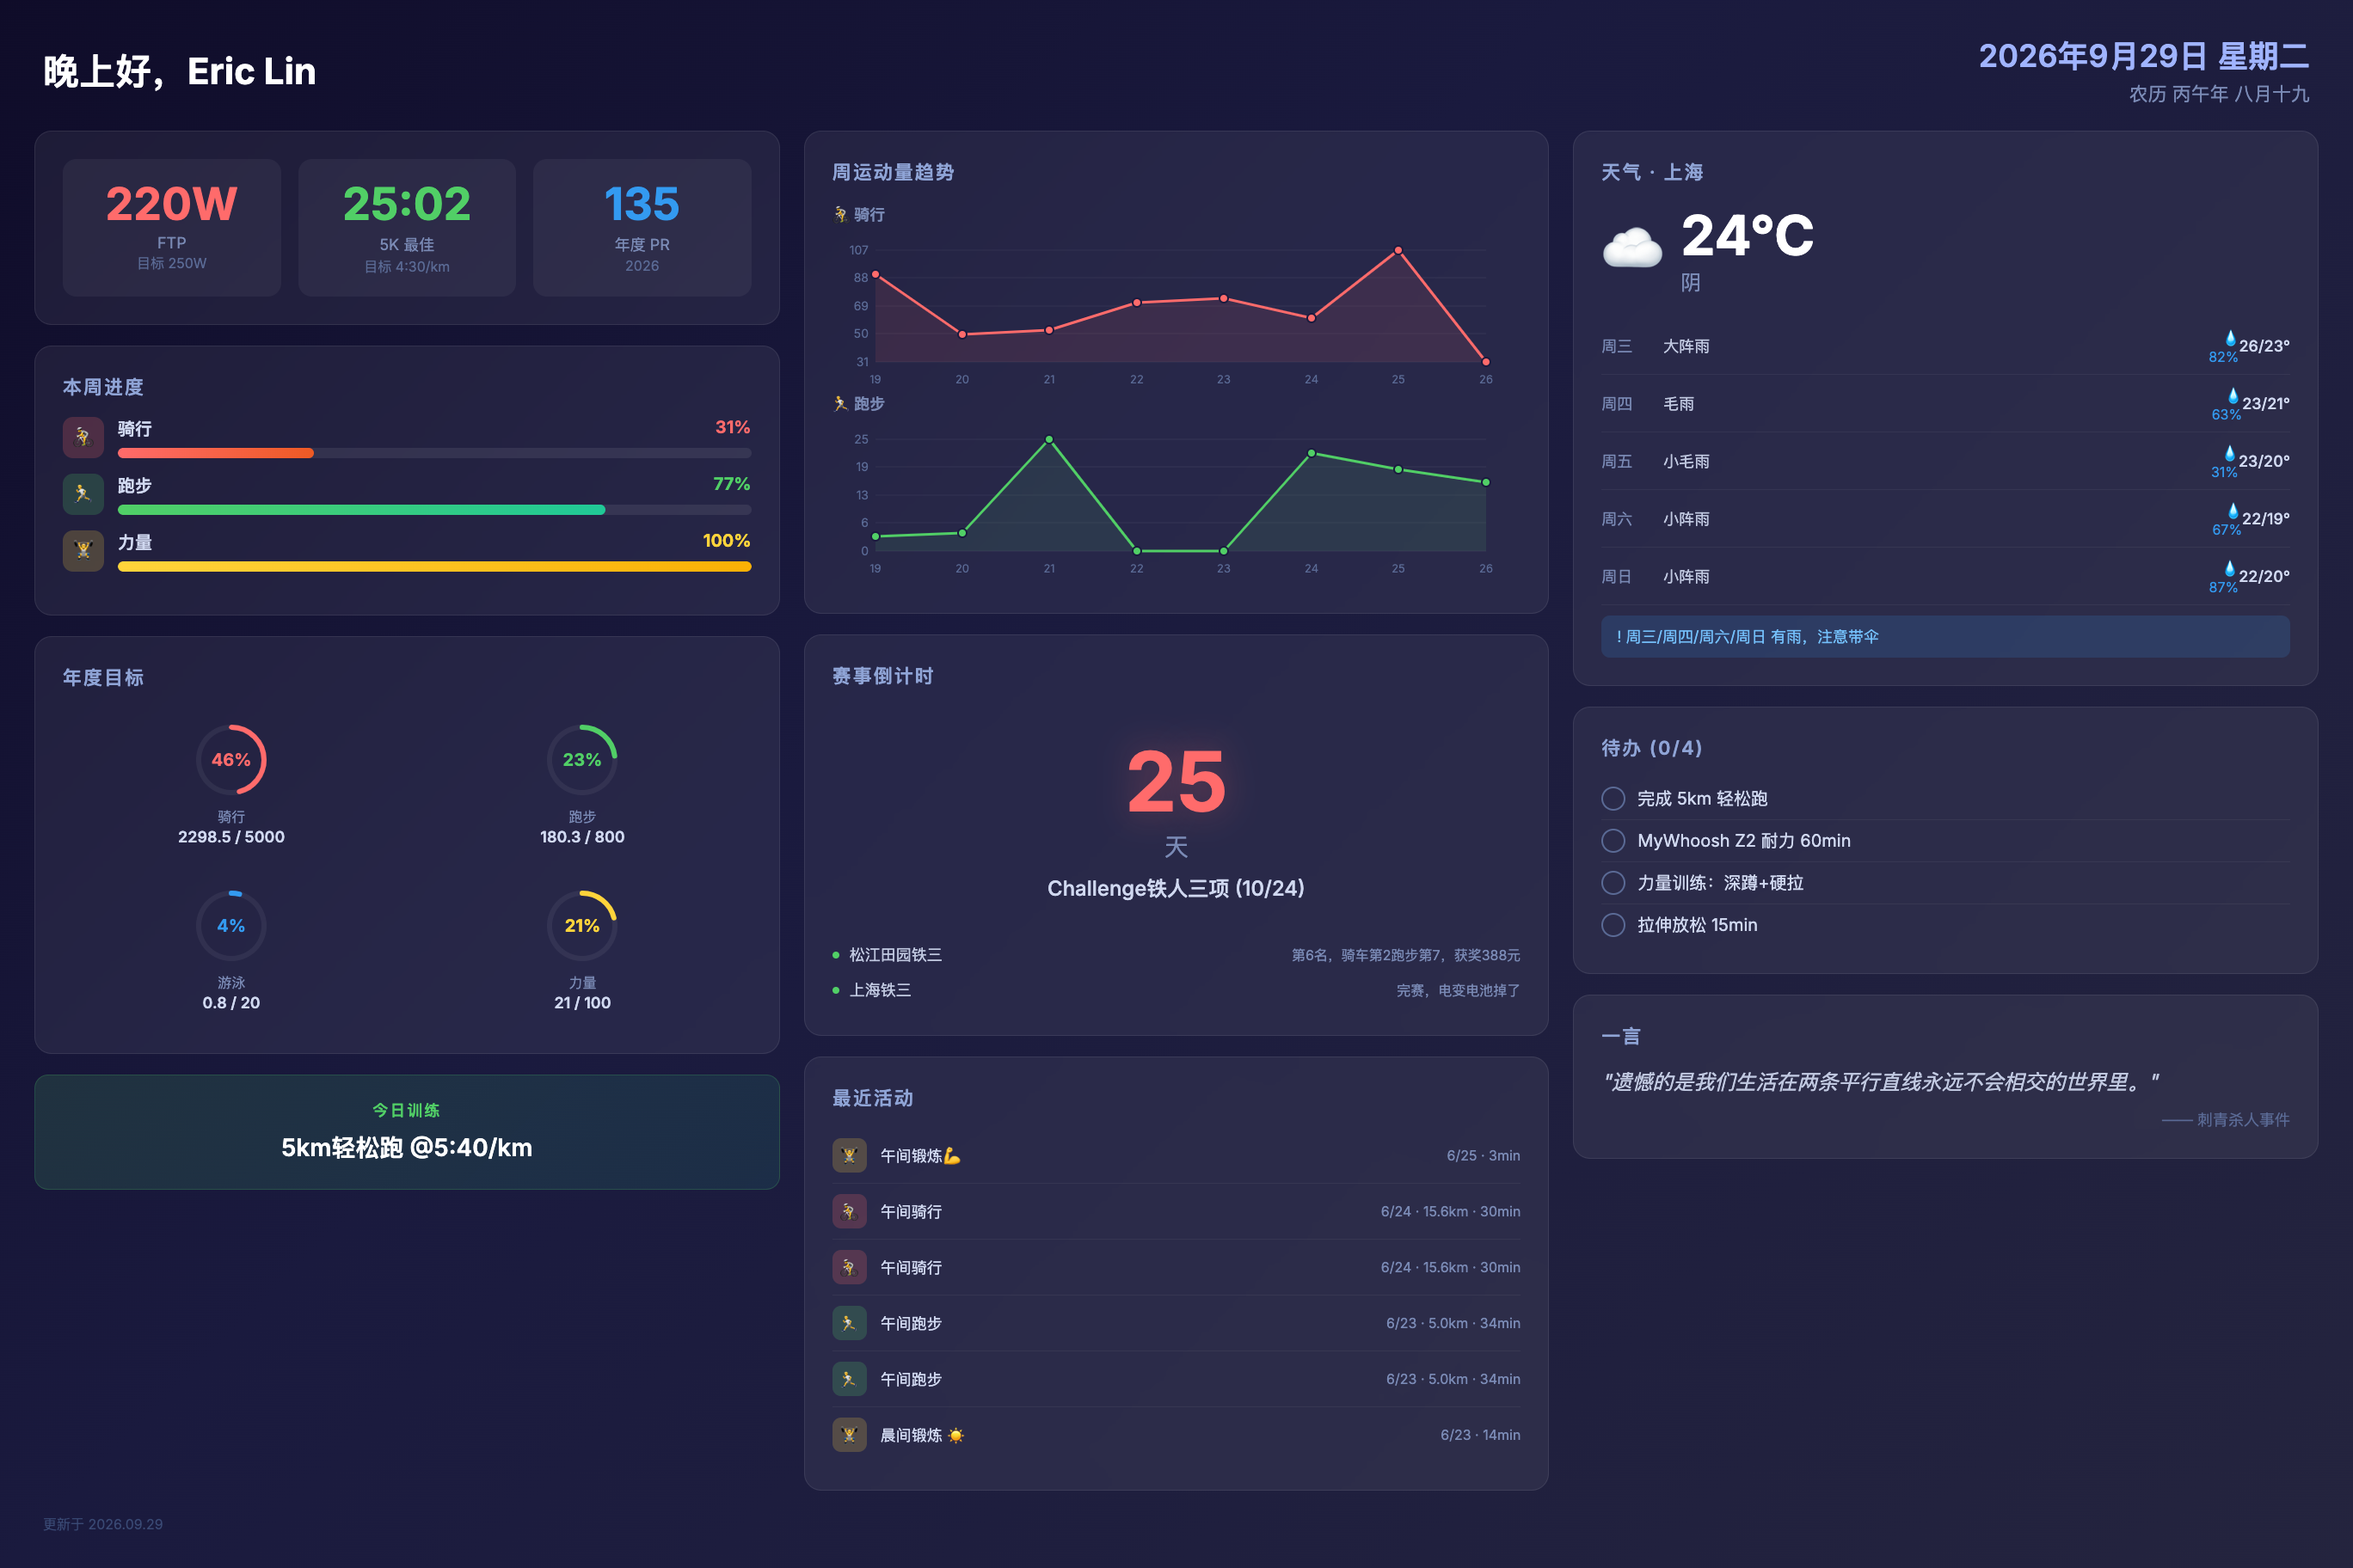
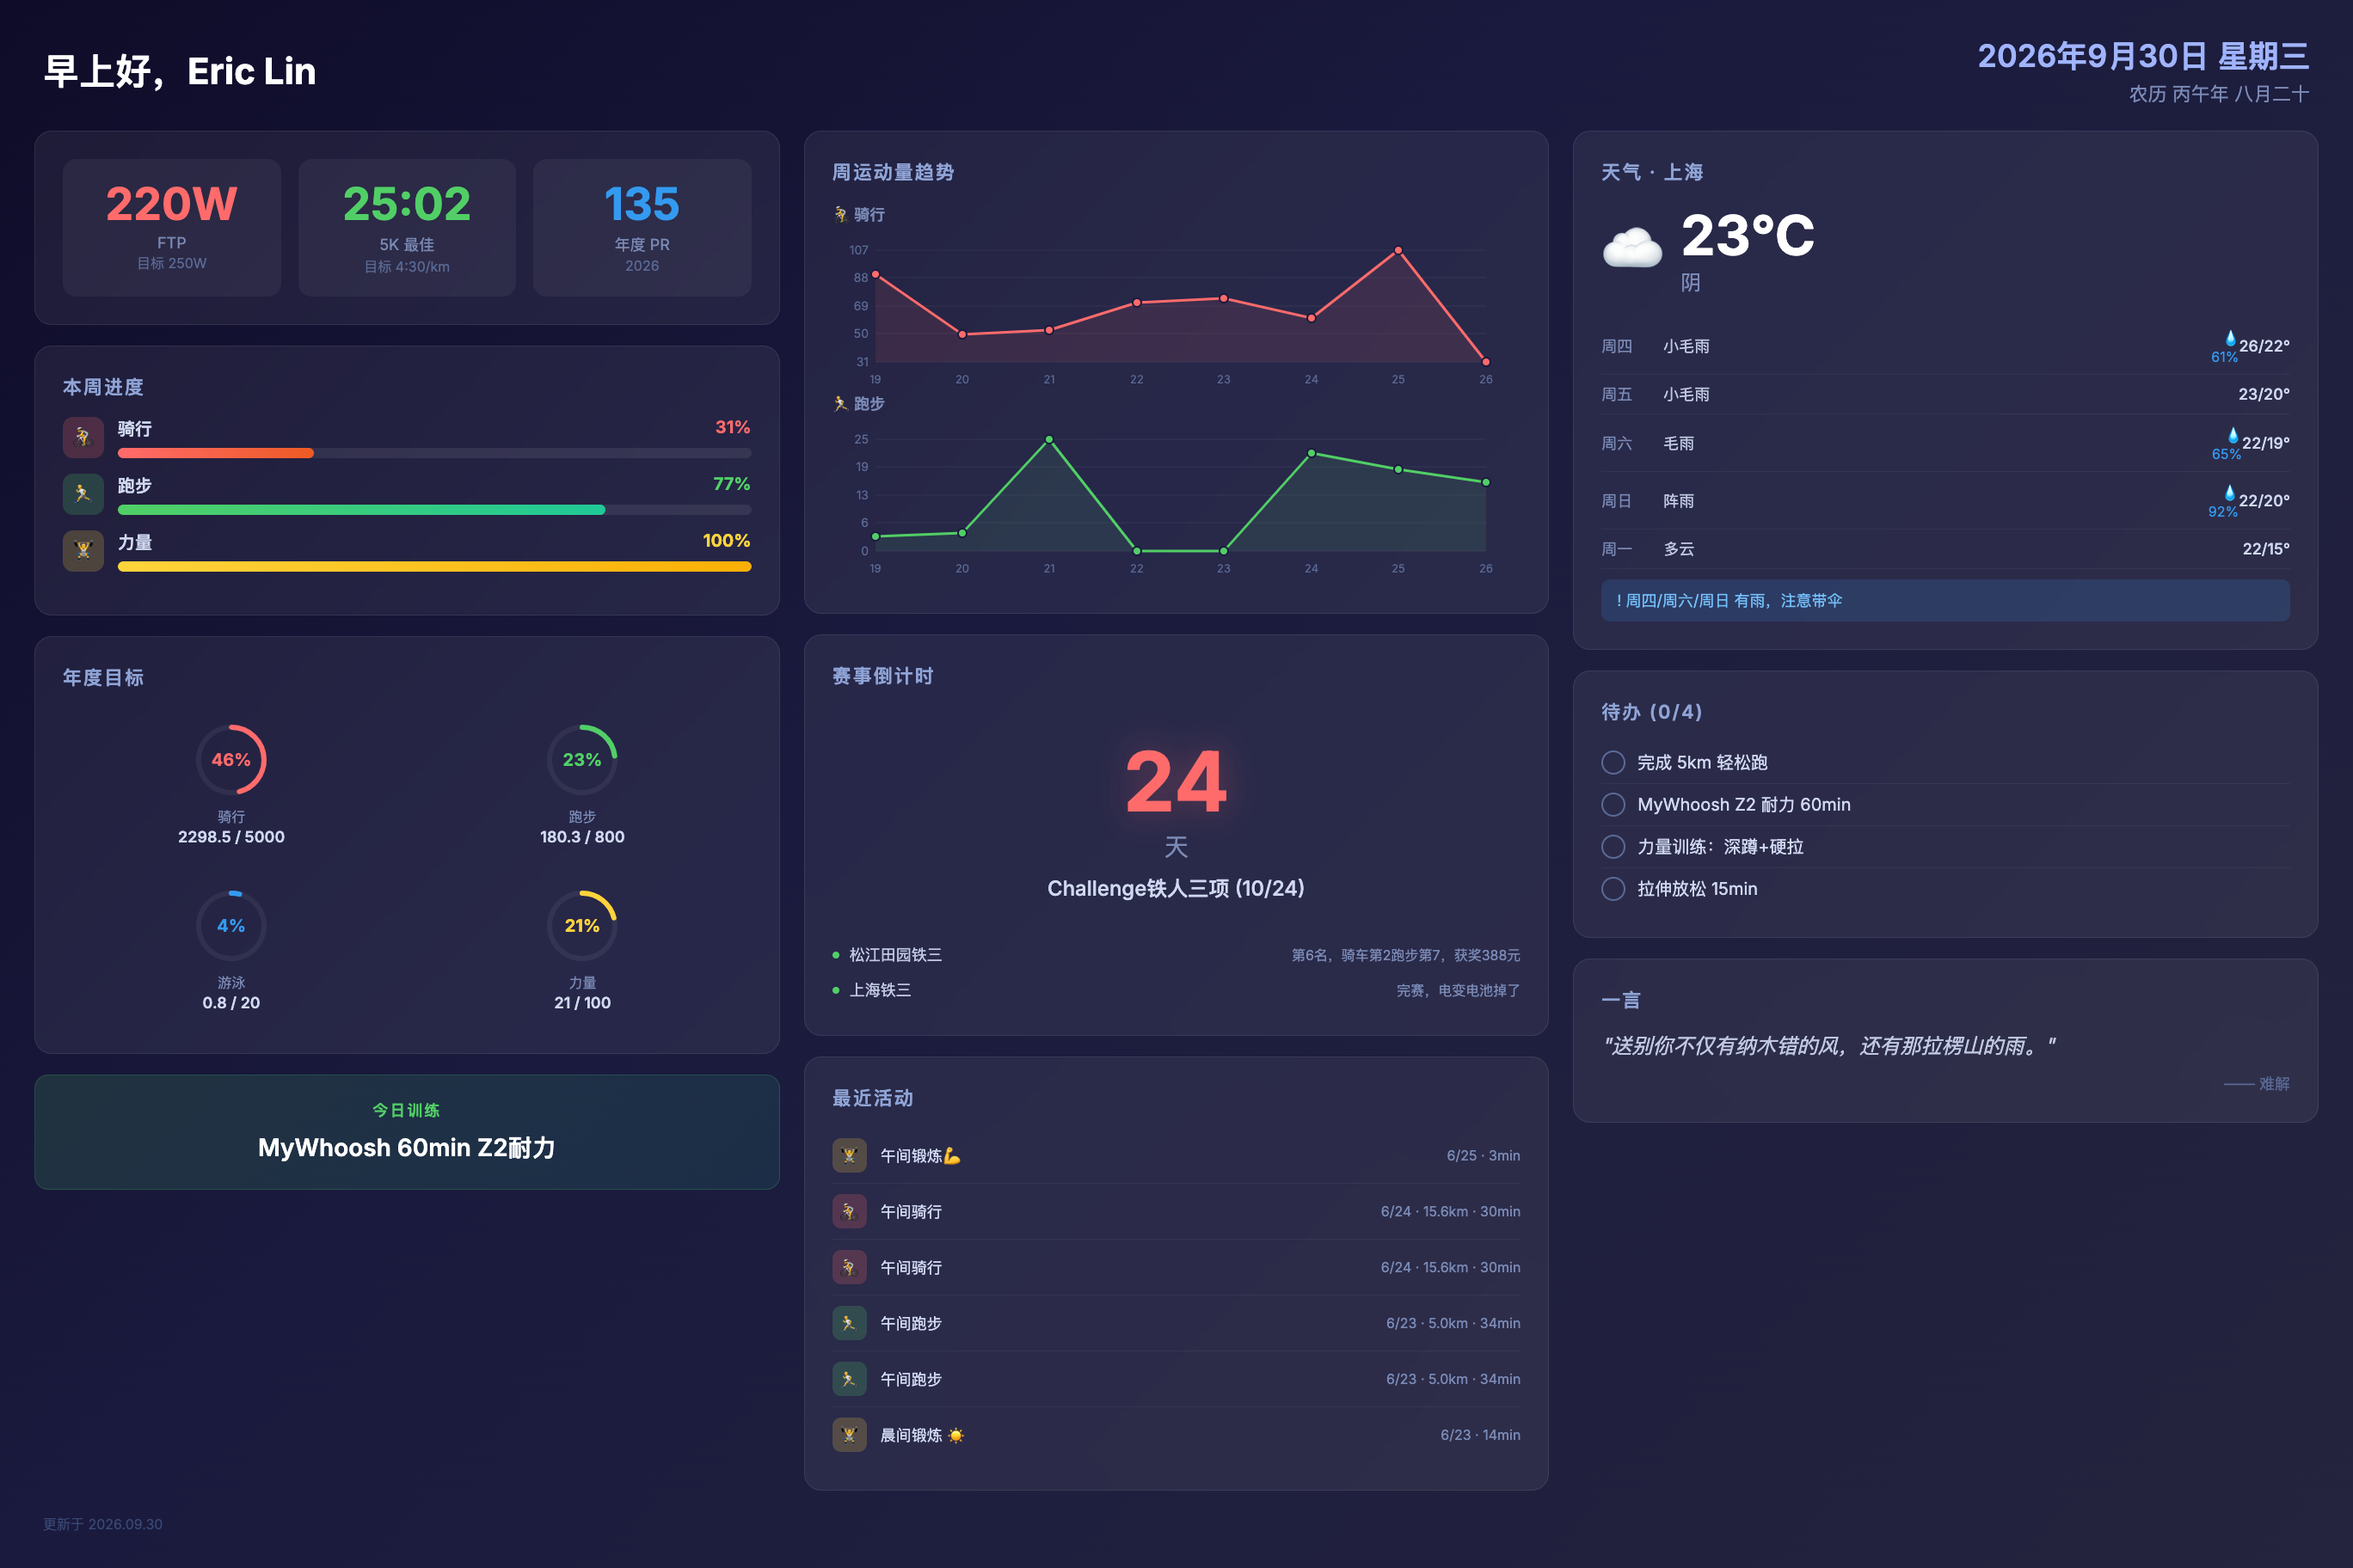
deploy: 2026-09-30-07:00

diff --git a/screensaver.html b/screensaver.html
@@ -490,13 +490,13 @@ html, body {
 <!-- ===== TOP BAR ===== -->
 <div class="top-bar">
   <div>
-    <div class="greeting">晚上好，Eric Lin</div>
+    <div class="greeting">早上好，Eric Lin</div>
     
   </div>
   <div class="date-info">
-    <div class="solar-date">2026年9月29日 星期二</div>
+    <div class="solar-date">2026年9月30日 星期三</div>
     
-    <div class="lunar-date">农历 丙午年 八月十九</div>
+    <div class="lunar-date">农历 丙午年 八月二十</div>
     
   </div>
 </div>
@@ -638,7 +638,7 @@ html, body {
   
   <div class="ai-today-card">
     <div class="ai-today-label">今日训练</div>
-    <div class="ai-today-text">5km轻松跑 @5:40/km</div>
+    <div class="ai-today-text">MyWhoosh 60min Z2耐力</div>
   </div>
   
 
@@ -732,7 +732,7 @@ html, body {
   <div class="card">
     <div class="card-title">赛事倒计时</div>
     <div class="race-countdown">
-      <div class="countdown-number">25</div>
+      <div class="countdown-number">24</div>
       <div class="countdown-unit">天</div>
       <div class="countdown-name">Challenge铁人三项 (10/24)</div>
     </div>
@@ -810,50 +810,50 @@ html, body {
     <div class="weather-current">
       <div class="weather-icon-big">☁</div>
       <div>
-        <div class="weather-temp-big">24°C</div>
+        <div class="weather-temp-big">23°C</div>
         <div class="weather-desc">阴</div>
       </div>
     </div>
     
     
     <div class="forecast-row">
-      <div class="forecast-day">周三</div>
-      <div class="forecast-desc">大阵雨</div>
-      <div class="forecast-precip">💧82%</div>
-      <div class="forecast-range">26/23°</div>
-    </div>
-    
-    <div class="forecast-row">
       <div class="forecast-day">周四</div>
-      <div class="forecast-desc">毛雨</div>
-      <div class="forecast-precip">💧63%</div>
-      <div class="forecast-range">23/21°</div>
+      <div class="forecast-desc">小毛雨</div>
+      <div class="forecast-precip">💧61%</div>
+      <div class="forecast-range">26/22°</div>
     </div>
     
     <div class="forecast-row">
       <div class="forecast-day">周五</div>
       <div class="forecast-desc">小毛雨</div>
-      <div class="forecast-precip">💧31%</div>
+      <div class="forecast-precip"></div>
       <div class="forecast-range">23/20°</div>
     </div>
     
     <div class="forecast-row">
       <div class="forecast-day">周六</div>
-      <div class="forecast-desc">小阵雨</div>
-      <div class="forecast-precip">💧67%</div>
+      <div class="forecast-desc">毛雨</div>
+      <div class="forecast-precip">💧65%</div>
       <div class="forecast-range">22/19°</div>
     </div>
     
     <div class="forecast-row">
       <div class="forecast-day">周日</div>
-      <div class="forecast-desc">小阵雨</div>
-      <div class="forecast-precip">💧87%</div>
+      <div class="forecast-desc">阵雨</div>
+      <div class="forecast-precip">💧92%</div>
       <div class="forecast-range">22/20°</div>
+    </div>
+    
+    <div class="forecast-row">
+      <div class="forecast-day">周一</div>
+      <div class="forecast-desc">多云</div>
+      <div class="forecast-precip"></div>
+      <div class="forecast-range">22/15°</div>
     </div>
     
     
     
-    <div class="rain-alert">! 周三/周四/周六/周日 有雨，注意带伞</div>
+    <div class="rain-alert">! 周四/周六/周日 有雨，注意带伞</div>
     
   </div>
   
@@ -902,9 +902,9 @@ html, body {
   
   <div class="card">
     <div class="card-title">一言</div>
-    <div class="quote-text">"遗憾的是我们生活在两条平行直线永远不会相交的世界里。"</div>
+    <div class="quote-text">"送别你不仅有纳木错的风，还有那拉楞山的雨。"</div>
     
-    <div class="quote-from">—— 刺青杀人事件</div>
+    <div class="quote-from">—— 难解</div>
     
   </div>
   
@@ -913,7 +913,7 @@ html, body {
 
 <!-- ===== BOTTOM BAR ===== -->
 <div class="bottom-bar">
-  <div class="update-time">更新于 2026.09.29</div>
+  <div class="update-time">更新于 2026.09.30</div>
 </div>
 
 </div>

diff --git a/life.html b/life.html
@@ -89,7 +89,7 @@ html, body {
 <table class="header-table">
   <tr>
     <td class="header-left">生活</td>
-    <td class="header-right">2026.09.29</td>
+    <td class="header-right">2026.09.30</td>
   </tr>
 </table>
 
@@ -138,7 +138,7 @@ html, body {
   <table class="weather-table">
     <tr>
       <td class="weather-icon">~</td>
-      <td class="weather-temp">24°C</td>
+      <td class="weather-temp">23°C</td>
       <td class="weather-desc">阴</td>
     </tr>
   </table>
@@ -146,17 +146,10 @@ html, body {
   <table class="forecast-table">
     
     <tr>
-      <td class="forecast-day">周三</td>
-      <td class="forecast-icon">|</td>
-      <td>大阵雨</td>
-      <td class="forecast-range">26/23°C</td>
-    </tr>
-    
-    <tr>
       <td class="forecast-day">周四</td>
       <td class="forecast-icon">.</td>
-      <td>毛雨</td>
-      <td class="forecast-range">23/21°C</td>
+      <td>小毛雨</td>
+      <td class="forecast-range">26/22°C</td>
     </tr>
     
     <tr>
@@ -169,21 +162,21 @@ html, body {
     <tr>
       <td class="forecast-day">周六</td>
       <td class="forecast-icon">.</td>
-      <td>小阵雨</td>
+      <td>毛雨</td>
       <td class="forecast-range">22/19°C</td>
     </tr>
     
     <tr>
       <td class="forecast-day">周日</td>
-      <td class="forecast-icon">.</td>
-      <td>小阵雨</td>
+      <td class="forecast-icon">|</td>
+      <td>阵雨</td>
       <td class="forecast-range">22/20°C</td>
     </tr>
     
     <tr>
       <td class="forecast-day">周一</td>
       <td class="forecast-icon">~</td>
-      <td>阴</td>
+      <td>多云</td>
       <td class="forecast-range">22/15°C</td>
     </tr>
     
@@ -191,13 +184,20 @@ html, body {
       <td class="forecast-day">周二</td>
       <td class="forecast-icon">*</td>
       <td>晴</td>
-      <td class="forecast-range">22/14°C</td>
+      <td class="forecast-range">21/14°C</td>
+    </tr>
+    
+    <tr>
+      <td class="forecast-day">周三</td>
+      <td class="forecast-icon">*</td>
+      <td>晴</td>
+      <td class="forecast-range">23/14°C</td>
     </tr>
     
   </table>
   
   
-  <div class="rain-alert">! 周三/周四/周六/周日 有雨，注意带伞</div>
+  <div class="rain-alert">! 周四/周六/周日 有雨，注意带伞</div>
   
 </div>
 
@@ -207,10 +207,10 @@ html, body {
   <p class="section-title">📅 今日</p>
   <table class="data-table">
     <tr>
-      <td>2026年9月29日 星期一</td>
+      <td>2026年9月30日 星期二</td>
     </tr>
     <tr>
-      <td>农历丙午年 八月十九</td>
+      <td>农历丙午年 八月二十</td>
     </tr>
   </table>
 </div>
@@ -261,9 +261,9 @@ html, body {
 
 <div class="box">
   <p class="section-title">💬 一言</p>
-  <p class="quote-text">遗憾的是我们生活在两条平行直线永远不会相交的世界里。</p>
+  <p class="quote-text">送别你不仅有纳木错的风，还有那拉楞山的雨。</p>
   
-  <p class="quote-from">—— 刺青杀人事件</p>
+  <p class="quote-from">—— 难解</p>
   
 </div>
 

diff --git a/index.html b/index.html
@@ -74,7 +74,7 @@ html, body {
 <table class="header-table">
   <tr>
     <td class="header-left">Eric Lin · 运动</td>
-    <td class="header-right">2026.09.29</td>
+    <td class="header-right">2026.09.30</td>
   </tr>
 </table>
 
@@ -225,17 +225,10 @@ html, body {
 <div class="ai-plan">
   <div class="ai-plan-title">AI 训练建议</div>
   
-  <div class="ai-today">今日: 阈值训练 3×8min @260W</div>
+  <div class="ai-today">今日: 轻松跑 5km</div>
   
   
   <table class="ai-weekly">
-    
-    <tr>
-      <td class="day">周二</td>
-      
-      <td>阈值训练 3×8min @260W</td>
-      
-    </tr>
     
     <tr>
       <td class="day">周三</td>
@@ -279,6 +272,13 @@ html, body {
       
     </tr>
     
+    <tr>
+      <td class="day">周二</td>
+      
+      <td>阈值训练 3×8min @260W</td>
+      
+    </tr>
+    
   </table>
   
   
@@ -293,7 +293,7 @@ html, body {
   <p class="section-title">即将到来</p>
   
   <div class="countdown-box">
-    <div class="countdown-days">25</div>
+    <div class="countdown-days">24</div>
     <div class="countdown-label">距 Challenge铁人三项 (10/24)</div>
   </div>
   

diff --git a/work.html b/work.html
@@ -89,7 +89,7 @@ html, body {
 <table class="header-table">
   <tr>
     <td class="header-left">工作</td>
-    <td class="header-right">2026.09.29</td>
+    <td class="header-right">2026.09.30</td>
   </tr>
 </table>
 
